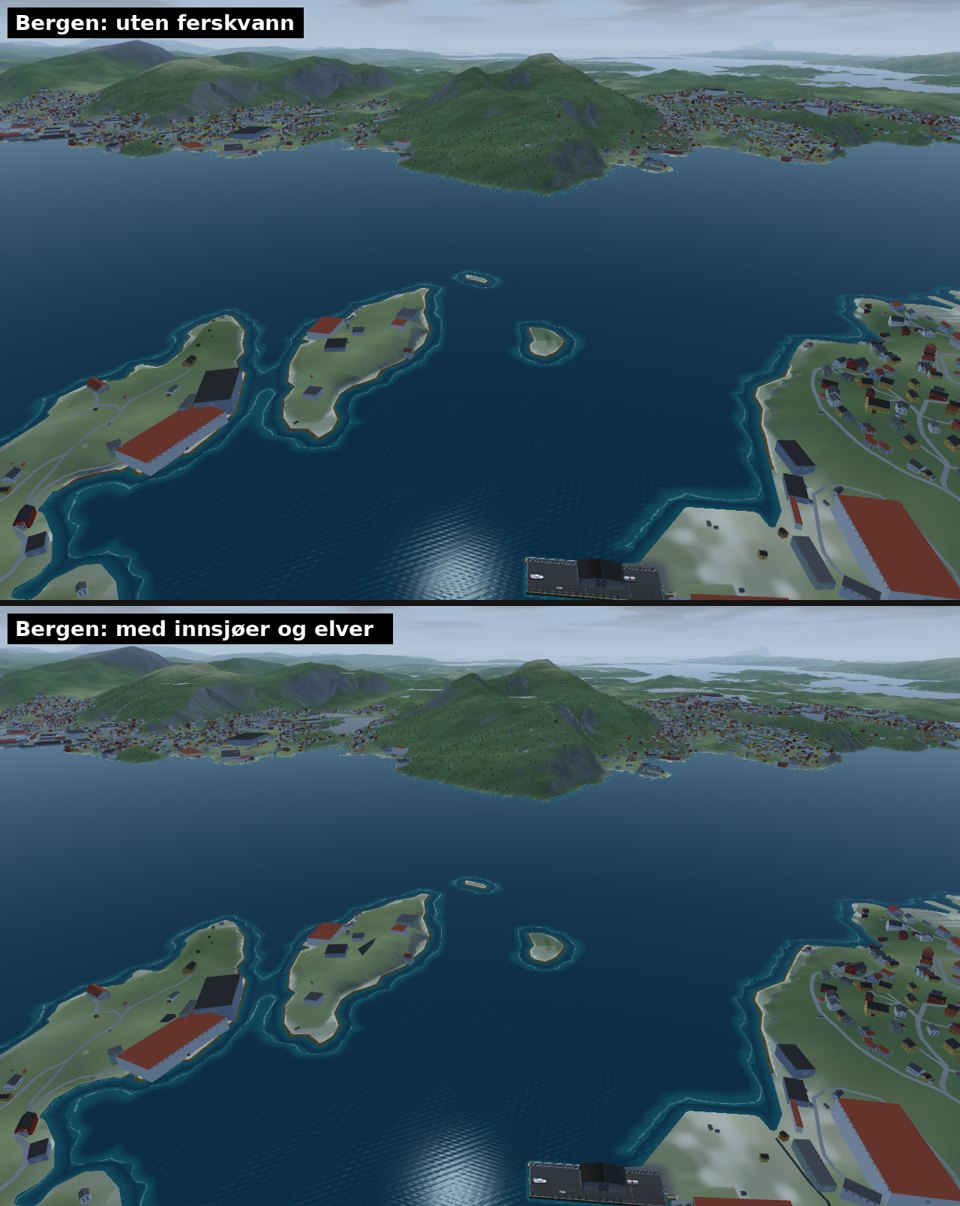
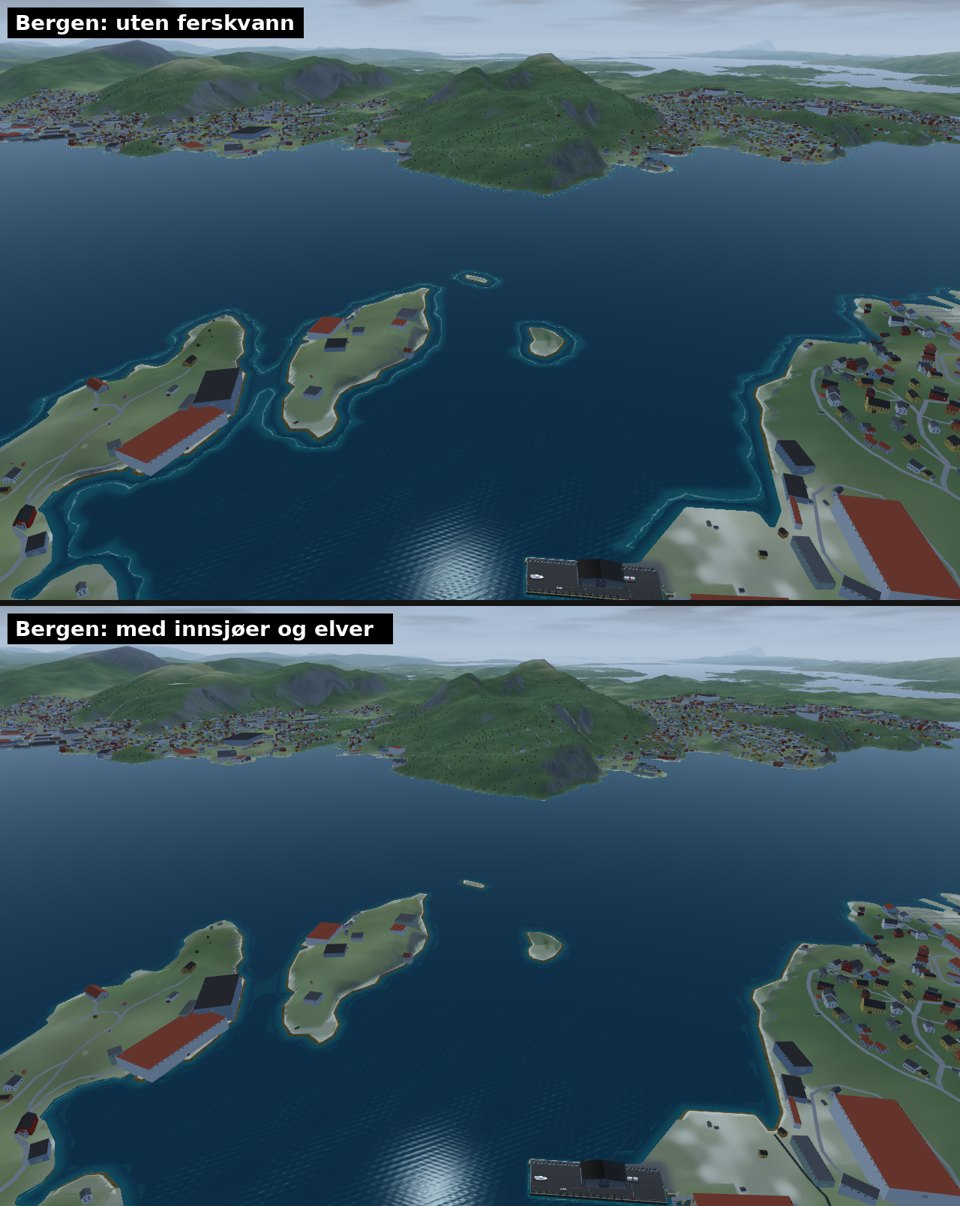
G2: a lake's level over the stepped ground inside it, at most 2.5 m over its shore
Claude-Session: https://claude.ai/code/session_013BxXiByJL97ZdBfrhEuWyj

diff --git a/src/js/view3d/17b-inland-water.js b/src/js/view3d/17b-inland-water.js
@@ -48,16 +48,19 @@
     for (const a of D.areas){ ai++;
       // standing water never above its shore: the level no higher than the lowest tenth of the ground at its outline (a pond of a
       // cell or two on a slope took the slope's median and lay as a dark plate over the bank, Bergen 28.10.2026)
-      let lv = a.level;
+      let lv = a.level, lvShore = 0;
       // a pond under 400 m2 is a few corners after the 4 m simplification, a dark plate rather than water (Bergen 28.10.2026): left out
       if (!a.kind){ let ar = 0; for (let i = 0; i < a.ix.length; i += 3){ const p = a.ix[i] * 2, q = a.ix[i + 1] * 2, r = a.ix[i + 2] * 2; ar += Math.abs((a.v[q] - a.v[p]) * (a.v[r + 1] - a.v[p + 1]) - (a.v[r] - a.v[p]) * (a.v[q + 1] - a.v[p + 1])) / 2; } if (ar < 400) continue; }
-      if (!a.kind){ const hs = []; for (let j = 0; j < a.v.length; j += 2) hs.push(terrH(ox + a.v[j], oz + a.v[j + 1])); hs.sort((p, q) => p - q); lv = Math.min(lv, hs[Math.floor(hs.length * 0.1)] + 0.3); }
-      // and only where the ground knows it: Kartverket's terrain has a lake flat at its water, so most of a real lake lies under the
-      // level; a pond the 25 m ground does not have stands half buried, a dark wedge of water on a slope (Bergen 28.10.2026): left out
-      // when under 70 % of the points inside (each triangle's middle and the three points halfway from it to the corners) are wet
-      if (!a.kind){ let wet = 0, n = 0; for (let i = 0; i < a.ix.length; i += 3){ const p = a.ix[i] * 2, q = a.ix[i + 1] * 2, r = a.ix[i + 2] * 2, cx = (a.v[p] + a.v[q] + a.v[r]) / 3, cz = (a.v[p + 1] + a.v[q + 1] + a.v[r + 1]) / 3;
-          for (const [x, z] of [[cx, cz], [(cx + a.v[p]) / 2, (cz + a.v[p + 1]) / 2], [(cx + a.v[q]) / 2, (cz + a.v[q + 1]) / 2], [(cx + a.v[r]) / 2, (cz + a.v[r + 1]) / 2]]){ n++; if (terrH(ox + x, oz + z) < lv - 0.05) wet++; } }
-        if (wet < n * 0.7) continue; }
+      if (!a.kind){ const hs = []; for (let j = 0; j < a.v.length; j += 2) hs.push(terrH(ox + a.v[j], oz + a.v[j + 1])); hs.sort((p, q) => p - q); lvShore = hs[Math.floor(hs.length * 0.1)]; lv = Math.min(lv, lvShore + 0.3); }
+      // and over the ground inside it: the heights over 10 m are kept in 2 m steps (region.hgtEnc), so a lake Kartverket has flat reads
+      // a step or two high inside, and a pond the ground does not have stands half buried (a dark wedge on an islet at Bergen,
+      // 28.10.2026). The level goes to 0.3 m over the highest but a seventh of the points inside (each triangle's middle and the three points
+      // halfway to its corners), at most 2.5 m over the shore's lowest tenth; water still under 70 % of them is left out
+      if (!a.kind){ const S = [];
+        for (let i = 0; i < a.ix.length; i += 3){ const p = a.ix[i] * 2, q = a.ix[i + 1] * 2, r = a.ix[i + 2] * 2, cx = (a.v[p] + a.v[q] + a.v[r]) / 3, cz = (a.v[p + 1] + a.v[q + 1] + a.v[r + 1]) / 3;
+          for (const [x, z] of [[cx, cz], [(cx + a.v[p]) / 2, (cz + a.v[p + 1]) / 2], [(cx + a.v[q]) / 2, (cz + a.v[q + 1]) / 2], [(cx + a.v[r]) / 2, (cz + a.v[r + 1]) / 2]]) S.push(terrH(ox + x, oz + z)); }
+        S.sort((p, q) => p - q); lv = Math.min(Math.max(lv, S[Math.floor((S.length - 1) * 0.85)] + 0.3), lvShore + 2.5);
+        if (S.filter(h => h < lv - 0.05).length < S.length * 0.7) continue; }
       if (!a.kind){ for (let i = 0; i < a.ix.length; i++){ const j = a.ix[i]; P.push(a.v[j * 2], lv, a.v[j * 2 + 1]); A.push(0, WATERI ? ai : 0, 0); } continue; }
       // a river's area lies on the ground: its triangles split at the longest edge down to 12 m, each point on the ground, so a big
       // triangle on a slope does not cut through it (a dark wedge on an islet at Bergen, 28.10.2026)
